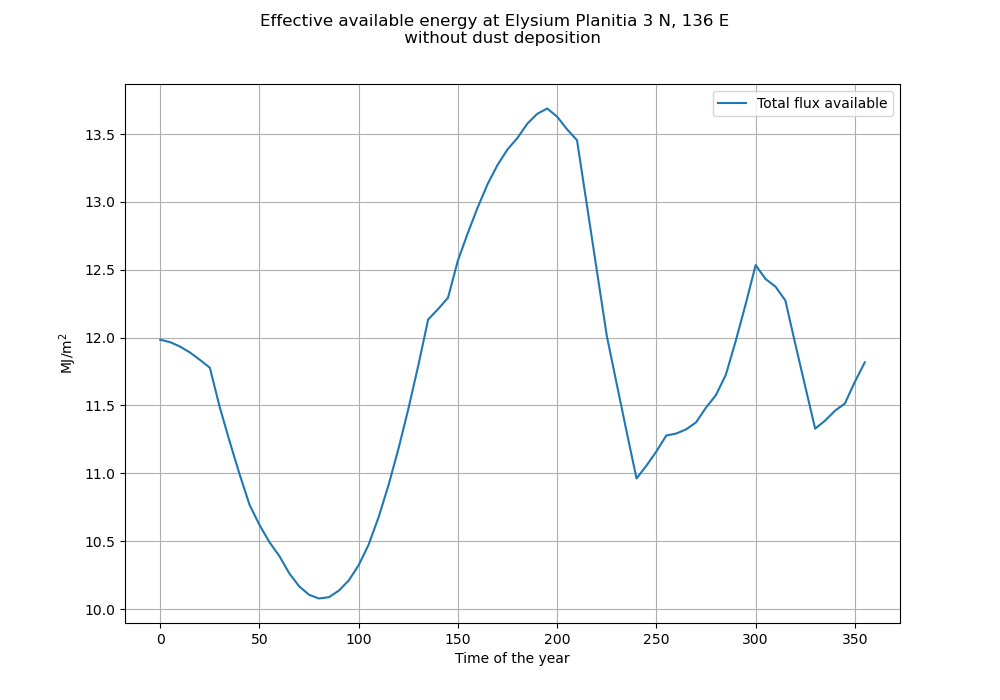
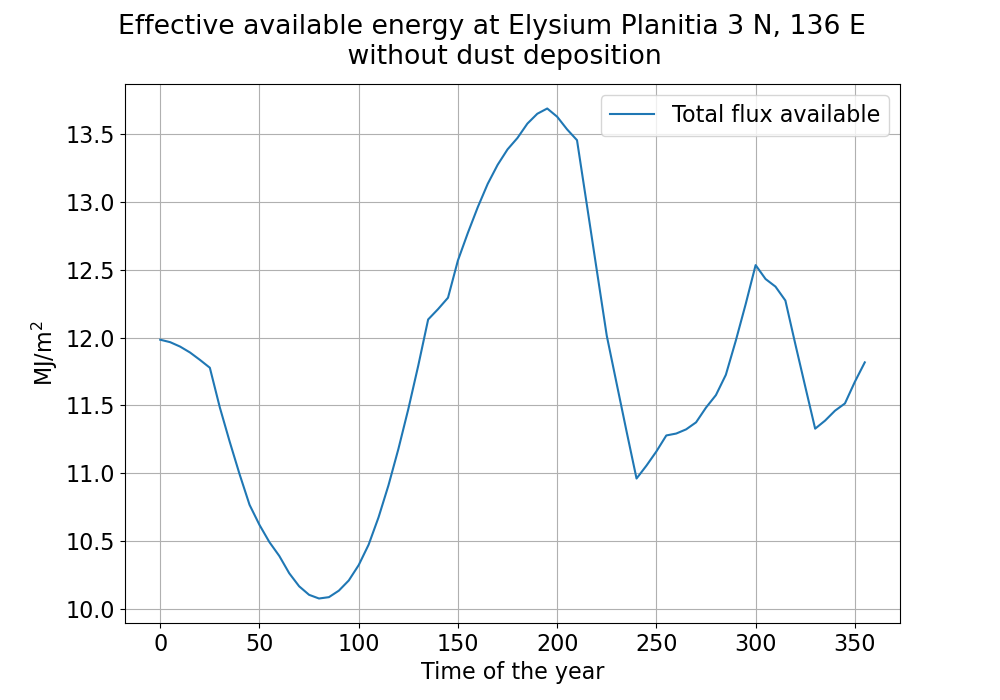
Stramlit API improved for cumulative power available

diff --git a/notebooks/visualize_mars_power_management.py b/notebooks/visualize_mars_power_management.py
@@ -1,0 +1,138 @@
+import streamlit as st
+import numpy as np
+import pandas as pd
+import matplotlib.pyplot as plt
+import os
+
+# Import functions from your modules
+from mars_environment import *
+from complete_year_irr import *
+from complete_year_analysis import *
+from dust_deposition_analysis import *
+from load_support import *
+
+d = np.pi / 180
+P = 88775
+O = 25.2 * d
+e = 0.0934
+Lsp = 251 * d
+Ls = np.linspace(0, 355, 72)
+lamda = np.linspace(200, 1790, 160)
+At = np.linspace(-88775 / 2, 88775 / 2, 1000)
+B_l = np.zeros((np.shape(lamda)[0], np.shape(At)[0]))
+T_l = np.zeros((np.shape(lamda)[0], np.shape(At)[0]))
+E_l = np.zeros((np.shape(lamda)[0], np.shape(At)[0]))
+
+# Site details
+sites = [
+    {'site_name': 'elysium', 'lat': 3, 'full_name': 'Elysium Planitia 3 N, 136 E '},
+    {'site_name': 'oxia', 'lat': 18.75, 'full_name': 'Oxia Planum 18 N, 325 E '},
+    {'site_name': 'mawrth_vallis', 'lat': 22.3, 'full_name': 'Mawrth Vallis 22 N, 343 E '},
+    {'site_name': 'vernal', 'lat': 6, 'full_name': 'Vernal Crater 6 N, 355 E '},
+    {'site_name': 'valles', 'lat': -13.9, 'full_name': 'Valles Marineres 14 S, 300 E '},
+    {'site_name': 'aram', 'lat': 2.6, 'full_name': 'Aram Chaos 2 N, 339 E '},
+    {'site_name': 'meridiani', 'lat': -1.95, 'full_name': 'Meridiani Planum 2 S, 354 E '},
+    {'site_name': 'eberswalde', 'lat': -24, 'full_name': 'Eberswalde Crater 24 S, 327 E '}
+]
+
+st.title("Mars Mission Power Analysis")
+
+# Select multiple sites
+selected_sites = st.multiselect(
+    "Select Landing Sites",
+    [site['full_name'] for site in sites],
+    default=[site['full_name'] for site in sites[:2]]  # Default to the first two sites
+)
+
+# Slider for daytime and nighttime loads
+ecl_load = st.slider("Select Nighttime Load (W)", min_value=100, max_value=250, value=120, step=10)
+sunlit_load = st.slider("Select Daytime Load (W)", min_value=100, max_value=250, value=200, step=10)
+
+# Slider for payload
+payload = st.slider("Select Payload (kg)", min_value=140, max_value=180, value=150, step=5)
+
+# Slider for panel size
+panel_size = st.slider("Select Panel Size (m²)", min_value=5.0, max_value=7.0, value=7.0, step=0.5)
+    # Fixed parameters
+bat_eff = 0.83
+panel_eff = 0.28
+
+# Initialize dataframes for comparison
+df_compare = pd.DataFrame(columns=['Sols'])
+load_support_duration_2028 = pd.DataFrame(columns=['Sols'])
+load_support_duration_2031 = pd.DataFrame(columns=['Sols'])
+# Iterate over selected sites and perform calculations
+for site in sites:
+    if site['full_name'] not in selected_sites:
+        continue
+
+    tau_rc, tau_lc, tau_lca, tau_lcs, g_c = water_ice_cloud()
+    A_l = surface_albedo()
+    tau_ga, tau_gs = atm_gas()
+    g_d, w_d, Q_d = optical_params()
+    tau_rd = get_optical_depth(site=site)
+    tau_ld, tau_lds, tau_lda = all_wavelength_dust_od(tau_rd, Q_d, w_d)
+    tau_total = tau_lc + tau_ga + tau_gs + tau_ld
+    w_total = tau_lcs + tau_lds + tau_gs
+    w_total = w_total / tau_total
+    g_total = (tau_lds * g_d + tau_lcs * g_c) / (tau_lcs + tau_lds + tau_gs)
+    w_total[w_total > 1] = 1
+
+    E_ml = am_mars_spectrum()
+    E_t, T_t, B_t, D_t, Ep, Tp, Bp, Dp, Ew1, Tw1, Bw1, Dw1 = complete_year_irradiance(
+        lat=site['lat'], tau_total=tau_total, w_total=w_total, g_total=g_total, A_l=A_l, E_ml=E_ml
+    )
+    Ef_t = B_t + 0.86 * D_t
+    Ef_w1 = Bw1 + 0.86 * Dw1
+    Ef_p = Bp + 0.86 * Dp
+
+    plot_daily_maxima(site_name=site['full_name'], Ls=Ls, Ew1=Ew1, Ef_w1=Ef_w1, Bw1=Bw1, Dw1=Dw1)
+    plot_available_energy_wo_dust(site_name=site['full_name'], Ls=Ls, Ef_p=Ef_p)
+    export_complete_year_irradiance(site_name=site['site_name'], Ls=Ls, Ew1=Ew1, Ef_w1=Ef_w1, Bw1=Bw1, Dw1=Dw1)
+
+    ref_dd_mean = get_dd_ref()
+
+    new, sol_pow, ecl_dur_2028 = dd_fac_2028(site=site, ref_dd_mean=ref_dd_mean, Ef_p=Ef_p, Ef_t=Ef_t)
+    energy_2028 = avail_energy_2028(sol_pow=sol_pow, new=new, site_name=site['full_name'])
+
+    new, sol_pow, ecl_dur_2031 = dd_fac_2031(site=site, ref_dd_mean=ref_dd_mean, Ef_p=Ef_p, Ef_t=Ef_t)
+    energy_2031 = avail_energy_2031(sol_pow=sol_pow, new=new, site_name=site['full_name'])
+
+    if 'Sols' not in df_compare.columns:
+        df_compare['Sols'] = np.arange(1, 181, 1)
+
+    df_compare[site['site_name'] + str(2028)] = energy_2028
+    df_compare[site['site_name'] + str(2031)] = energy_2031
+
+    load_support_duration_2028['Sols'] = np.arange(1, 180, 1)
+    load_support_duration_2028[site['site_name']] = load_support_duration(
+        ecl_dur=np.array(ecl_dur_2028), sol_pow_smooth=energy_2028,
+        ecl_load=ecl_load, sunlit_load=sunlit_load, payload=payload,
+        bat_eff=bat_eff, panel_size=panel_size, panel_eff=panel_eff
+    )
+
+    load_support_duration_2031['Sols'] = np.arange(1, 180, 1)
+    load_support_duration_2031[site['site_name']] = load_support_duration(
+        ecl_dur=np.array(ecl_dur_2031), sol_pow_smooth=energy_2031,
+        ecl_load=ecl_load, sunlit_load=sunlit_load, payload=payload,
+        bat_eff=bat_eff, panel_size=panel_size, panel_eff=panel_eff
+    )
+
+df_compare_cumsum = df_compare.cumsum(axis=0)
+df_compare_cumsum = df_compare_cumsum.divide(np.array(df_compare_cumsum.index + 1), axis=0)
+
+energy_compare_2031 = df_compare_cumsum[df_compare_cumsum.columns[df_compare_cumsum.columns.str.endswith('2031')]]
+energy_compare_2028 = df_compare_cumsum[df_compare_cumsum.columns[df_compare_cumsum.columns.str.endswith('2028')]]
+st.write(energy_compare_2028.head())
+plt.figure(figsize=(20, 12))
+for col in energy_compare_2028.columns:
+    plt.plot(np.arange(1, 181, 1), energy_compare_2028[col], label=col)
+for col in energy_compare_2031.columns:
+    plt.plot(np.arange(1, 181, 1), energy_compare_2031[col], label=col)
+
+plt.xlabel("Sols")
+plt.ylabel("Cumulative Mean Energy (kWh)")
+plt.title("Cumulative Mean Energy Comparison for Selected Sites")
+plt.legend()
+plt.grid(True)
+st.pyplot(plt)
